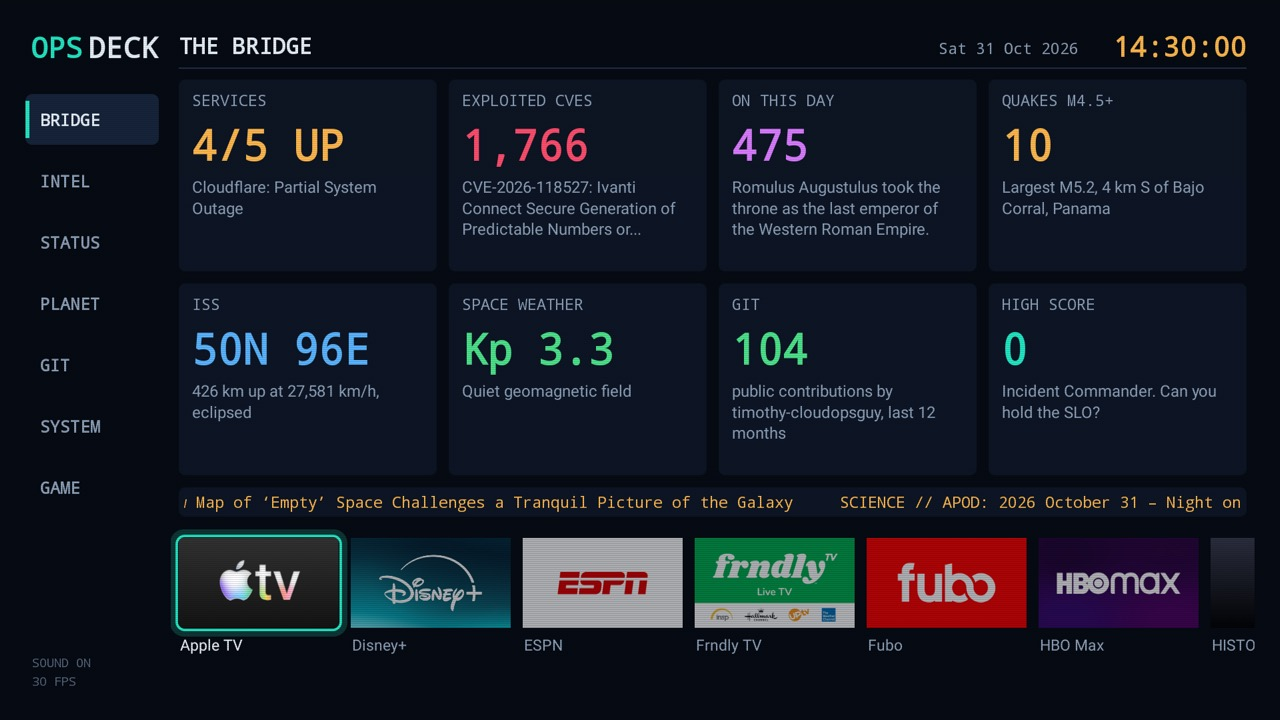
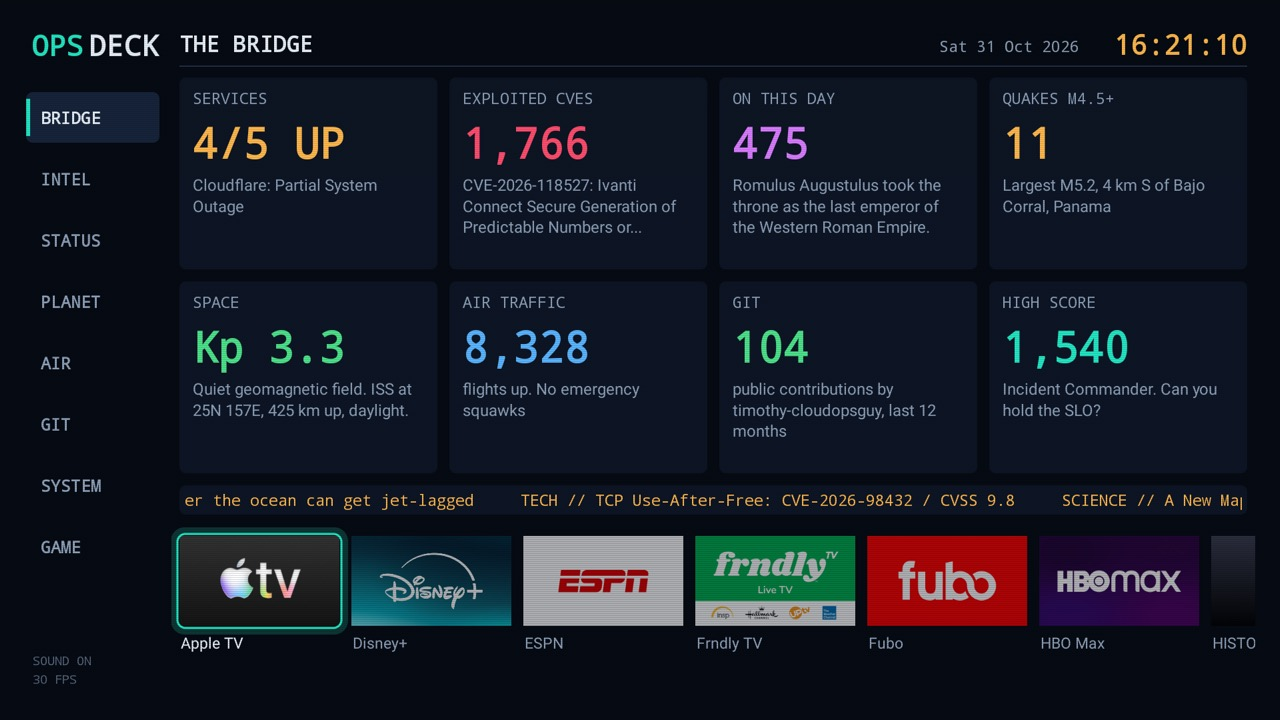
addons: Ops Deck Bridge gets Space and Air Traffic tiles
ISS and space weather share one tile; the new one shows flights in the air and any
emergency squawk, from feeds the air map now shares. Tried on a Hisense SmartTV 4K
(songshan), Android 11.

diff --git a/addons/ops-deck/app/src/main/java/io/github/timothy_cloudopsguy/opsdeck/BridgePanel.java b/addons/ops-deck/app/src/main/java/io/github/timothy_cloudopsguy/opsdeck/BridgePanel.java
@@ -18,6 +18,7 @@ final class BridgePanel extends Panel {
     private static final int COLS = 4;
     private static final int TILES = 8;
     private static final int APP_ROW = 2;
+    private static final int AIR_TILE = 5;
     private static final float TILE_W = 387f;
     private static final float TILE_H = 288f;
     private static final float GAP = 18f;
@@ -26,8 +27,8 @@ final class BridgePanel extends Panel {
     private static final float APP_TOP = 806f;
     private static final double TICKER_SPEED = 0.09;
 
-    private final String[] label = {"SERVICES", "EXPLOITED CVES", "ON THIS DAY", "QUAKES M4.5+", "ISS", "SPACE WEATHER", "GIT", "HIGH SCORE"};
-    private final int[] target = {2, 1, 1, 3, 4, 3, 5, 7};
+    private final String[] label = {"SERVICES", "EXPLOITED CVES", "ON THIS DAY", "QUAKES M4.5+", "SPACE", "AIR TRAFFIC", "GIT", "HIGH SCORE"};
+    private final int[] target = {2, 1, 1, 3, 3, 4, 5, 7};
     private final String[] value = new String[TILES];
     private final String[] sub = new String[TILES];
     private final int[] tone = new int[TILES];
@@ -41,6 +42,7 @@ final class BridgePanel extends Panel {
     private float appScroll;
     private long refreshed;
     private String ticker = "";
+    private boolean airAlert;
     private float tickerWidth;
 
     BridgePanel(Deck deck) {
@@ -125,6 +127,14 @@ final class BridgePanel extends Panel {
         float r = l + TILE_W;
         float b = t + TILE_H;
         Ui.card(c, l, t, r, b, Ui.PANEL);
+        if (i == AIR_TILE && airAlert) {
+            // A slow pulse: it should be seen from across the room without nagging.
+            Ui.STROKE.setColor(Ui.RED);
+            Ui.STROKE.setAlpha((int) (120 + 135 * (Math.sin(now / 400.0) * 0.5 + 0.5)));
+            Ui.STROKE.setStrokeWidth(4);
+            Ui.R.set(l, t, r, b);
+            c.drawRoundRect(Ui.R, 10, 10, Ui.STROKE);
+        }
         Ui.mono(c, label[i], l + 20, t + 40, 23, Ui.DIM);
         Ui.line(c, value[i], l + 20, t + 122, TILE_W - 40, 64, tone[i], Ui.MONO_BOLD);
         Ui.para(c, sub[i], l + 20, t + 170, TILE_W - 40, 24, Ui.DIM, Ui.SANS, 3);
@@ -214,19 +224,27 @@ final class BridgePanel extends Panel {
             sub[3] = String.format(Locale.US, "Largest M%.1f, %s", top.magnitude, top.place);
             tone[3] = Ui.AMBER;
         }
-        Parsers.Iss iss = s.iss;
-        if (iss != null) {
-            value[4] = String.format(Locale.US, "%.0f%s %.0f%s", Math.abs(iss.lat), iss.lat >= 0 ? "N" : "S",
-                    Math.abs(iss.lon), iss.lon >= 0 ? "E" : "W");
-            sub[4] = String.format(Locale.US, "%.0f km up at %,.0f km/h, %s", iss.altitudeKm, iss.speedKmh, iss.visibility);
-            tone[4] = Ui.BLUE;
-        }
         float[] kp = s.kp;
+        Parsers.Iss iss = s.iss;
+        String station = iss == null ? "" : String.format(Locale.US, "ISS at %.0f%s %.0f%s, %.0f km up, %s.",
+                Math.abs(iss.lat), iss.lat >= 0 ? "N" : "S", Math.abs(iss.lon), iss.lon >= 0 ? "E" : "W",
+                iss.altitudeKm, iss.visibility);
         if (kp.length > 0) {
             float k = kp[kp.length - 1];
-            value[5] = String.format(Locale.US, "Kp %.1f", k);
-            sub[5] = PlanetPanel.stormName(k);
-            tone[5] = k >= 5 ? Ui.RED : k >= 4 ? Ui.AMBER : Ui.GREEN;
+            value[4] = String.format(Locale.US, "Kp %.1f", k);
+            sub[4] = PlanetPanel.stormName(k) + ". " + station;
+            tone[4] = k >= 5 ? Ui.RED : k >= 4 ? Ui.AMBER : Ui.GREEN;
+        } else if (iss != null) {
+            value[4] = "ISS";
+            sub[4] = station;
+            tone[4] = Ui.BLUE;
+        }
+        List<AirData.Plane> squawks = s.emergencies;
+        airAlert = !squawks.isEmpty();
+        if (s.flightsUp >= 0) value[5] = Ui.number(s.flightsUp);
+        if (s.flightsUp >= 0 || airAlert) {
+            sub[5] = (s.flightsUp >= 0 ? "flights up. " : "") + AirData.squawkSummary(squawks);
+            tone[5] = airAlert ? Ui.RED : Ui.BLUE;
         }
         Parsers.Calendar cal = s.calendar;
         if (cal != null) {

diff --git a/addons/ops-deck/app/src/main/java/io/github/timothy_cloudopsguy/opsdeck/Store.java b/addons/ops-deck/app/src/main/java/io/github/timothy_cloudopsguy/opsdeck/Store.java
@@ -41,6 +41,7 @@ final class Store {
     static final int TECH = 1;
     static final int SCIENCE = 2;
     static final int HISTORY = 3;
+    static final String[] EMERGENCY_CODES = {"7700", "7600", "7500"};
     static final String[] CATEGORIES = {"VULNS", "TECH", "SCIENCE", "HISTORY"};
 
     /** One vendor's status page. */
@@ -147,6 +148,12 @@ final class Store {
     volatile List<Parsers.Repo> repos;
     volatile int[] weeks;
     volatile int kevTotal = -1;
+    /** Aircraft in the air in OpenSky's last world snapshot; -1 until there is one. */
+    volatile int flightsUp = -1;
+    /** Emergency squawks anywhere in the world, across the codes in EMERGENCY_CODES. */
+    volatile List<AirData.Plane> emergencies = Collections.emptyList();
+    @SuppressWarnings("unchecked")
+    private final List<AirData.Plane>[] emergenciesByCode = new List[EMERGENCY_CODES.length];
     /** Which of the last ISS fixes to draw as a trail: lat, lon pairs, oldest first. */
     final List<double[]> issTrail = Collections.synchronizedList(new ArrayList<>());
 
@@ -193,6 +200,16 @@ final class Store {
             issTrail.add(new double[]{now.lat, now.lon});
             if (issTrail.size() > 60) issTrail.remove(0);
         }));
+        // OpenSky allows 400 credits a day and a world snapshot costs 4: at this pace a TV left on all day stays well
+        // inside that, with room for the air map's own use.
+        jobs.add(new Job("OpenSky count", "https://opensky-network.org/api/states/all", 20 * MINUTE,
+                (f, ms) -> flightsUp = AirData.parseOpenSky(read(f), System.currentTimeMillis()).size()));
+        for (int i = 0; i < EMERGENCY_CODES.length; i++) {
+            int code = i;
+            emergenciesByCode[i] = Collections.emptyList();
+            jobs.add(new Job("Squawk " + EMERGENCY_CODES[i], "https://api.adsb.lol/v2/sqk/" + EMERGENCY_CODES[i], MINUTE,
+                    (f, ms) -> setEmergencies(code, AirData.parseRegional(read(f), System.currentTimeMillis()))));
+        }
         jobs.add(new Job("GitHub chart", "https://github.com/users/" + githubUser + "/contributions",
                 HOUR, (f, ms) -> calendar = Parsers.calendar(read(f))));
         // Unauthenticated GitHub allows 60 calls an hour, so these stay slow.
@@ -231,6 +248,13 @@ final class Store {
                 return;
             }
         }
+    }
+
+    private synchronized void setEmergencies(int code, List<AirData.Plane> found) {
+        emergenciesByCode[code] = found;
+        List<AirData.Plane> all = new ArrayList<>();
+        for (List<AirData.Plane> list : emergenciesByCode) all.addAll(list);
+        emergencies = all;
     }
 
     private void addStatus(String name, String base) {

diff --git a/addons/ops-deck/app/src/main/java/io/github/timothy_cloudopsguy/opsdeck/AirFeed.java b/addons/ops-deck/app/src/main/java/io/github/timothy_cloudopsguy/opsdeck/AirFeed.java
@@ -42,9 +42,6 @@ final class AirFeed {
     private static final String REGIONAL_LOL = "https://api.adsb.lol/v2/lat/%.3f/lon/%.3f/dist/%d";
     private static final String REGIONAL_FI = "https://opendata.adsb.fi/api/v2/lat/%.3f/lon/%.3f/dist/%d";
     private static final String WORLD = "https://opensky-network.org/api/states/all";
-    private static final String SQUAWK = "https://api.adsb.lol/v2/sqk/";
-    private static final String[] EMERGENCY_CODES = {"7700", "7600", "7500"};
-    private static final long EMERGENCY_MS = 60_000;
     private static final String TRACK = "https://opensky-network.org/api/tracks/all?time=0&icao24=";
     private static final long TRACK_REFRESH_MS = 5 * 60_000;
     private static final String ROUTE = "https://api.adsbdb.com/v0/callsign/";
@@ -59,9 +56,6 @@ final class AirFeed {
     /** Set once: {lat, lon}. */
     volatile double[] home;
     volatile boolean locating = true;
-    /** Emergencies anywhere in the world, whatever part of it the map is showing. */
-    volatile List<AirData.Plane> worldEmergencies = Collections.emptyList();
-    private long emergenciesAsked;
     volatile AirData.Track currentTrack;
     volatile String trackState = "";
     private volatile String trackHex = "";
@@ -111,10 +105,6 @@ final class AirFeed {
     /** Called each frame: asks for fresh aircraft when they are due for what the screen shows. */
     void poll(double lat, double lon, int zoom, long now) {
         locateOnce(now);
-        if (now - emergenciesAsked >= EMERGENCY_MS) {
-            emergenciesAsked = now;
-            planeThread.execute(this::fetchEmergencies);
-        }
         wantRegional = zoom >= REGIONAL_MIN_ZOOM;
         if (busy) return;
         if (wantRegional) {
@@ -136,20 +126,6 @@ final class AirFeed {
             if (showingWorld && now - file.lastModified() < WORLD_MS) return;
             busy = true;
             planeThread.execute(() -> fetchWorld(file));
-        }
-    }
-
-    private void fetchEmergencies() {
-        List<AirData.Plane> found = new java.util.ArrayList<>();
-        try {
-            File file = new File(dir, "air-squawk.feed");
-            for (String code : EMERGENCY_CODES) {
-                Store.download(SQUAWK + code, file);
-                found.addAll(AirData.parseRegional(Store.read(file), System.currentTimeMillis()));
-            }
-            worldEmergencies = found;
-        } catch (Exception e) {
-            // Keep the last answer: the feeds on screen still show the emergencies they carry.
         }
     }
 

diff --git a/addons/ops-deck/app/src/main/java/io/github/timothy_cloudopsguy/opsdeck/AirPanel.java b/addons/ops-deck/app/src/main/java/io/github/timothy_cloudopsguy/opsdeck/AirPanel.java
@@ -471,7 +471,7 @@ final class AirPanel extends Panel {
             points[used + 1] = y;
             dotCount[bucket] = used + 2;
         }
-        for (AirData.Plane p : feed.worldEmergencies) {
+        for (AirData.Plane p : deck.store.emergencies) {
             boolean known = false;
             for (int i = 0; i < alarms.size() && !known; i++) known = alarms.get(i).hex.equals(p.hex);
             if (!known && p.emergency()) alarms.add(p);
@@ -595,7 +595,7 @@ final class AirPanel extends Panel {
         Ui.bold(c, p.name(), l + 22, t + 54, 42, p.emergency() ? Ui.RED : Ui.TEXT);
         float y = t + 90;
         if (p.emergency()) {
-            Ui.bold(c, "SQUAWK " + p.squawk + " " + squawkWord(p.squawk), l + 22, y, 23, Ui.RED);
+            Ui.bold(c, "SQUAWK " + p.squawk + " " + AirData.squawkMeaning(p.squawk).toUpperCase(Locale.ROOT), l + 22, y, 23, Ui.RED);
             y += 34;
         }
         if (!p.emergency() && !reportedSquawk.isEmpty() && !reportedSquawk.equals(p.squawk)) {
@@ -656,14 +656,6 @@ final class AirPanel extends Panel {
     private static String climbWord(int fpm) {
         if (fpm > 300) return "climbing";
         return fpm < -300 ? "descending" : "";
-    }
-
-    private static String squawkWord(String squawk) {
-        switch (squawk) {
-            case "7500": return "HIJACK";
-            case "7600": return "RADIO FAILURE";
-            default: return "EMERGENCY";
-        }
     }
 
     private void drawControls(Canvas c) {

diff --git a/addons/ops-deck/app/src/test/java/io/github/timothy_cloudopsguy/opsdeck/AirDataTest.java b/addons/ops-deck/app/src/test/java/io/github/timothy_cloudopsguy/opsdeck/AirDataTest.java
@@ -158,6 +158,19 @@ public class AirDataTest {
     }
 
     @Test
+    public void squawkSummaryNamesTheFirstAndCountsTheRest() throws Exception {
+        List<AirData.Plane> planes = AirData.parseRegional("{\"ac\":["
+                + "{\"hex\":\"a\",\"flight\":\"HK1\",\"lat\":1,\"lon\":1,\"squawk\":\"7600\"},"
+                + "{\"hex\":\"b\",\"lat\":1,\"lon\":1,\"squawk\":\"7700\"},"
+                + "{\"hex\":\"c\",\"lat\":1,\"lon\":1,\"squawk\":\"7500\"}]}", NOW);
+        assertEquals("No emergency squawks", AirData.squawkSummary(planes.subList(0, 0)));
+        assertEquals("7600 radio failure: HK1", AirData.squawkSummary(planes.subList(0, 1)));
+        assertEquals("7600 radio failure: HK1, and 2 more", AirData.squawkSummary(planes));
+        assertEquals("hijack", AirData.squawkMeaning("7500"));
+        assertEquals("emergency", AirData.squawkMeaning("7700"));
+    }
+
+    @Test
     public void routeAndLocationAnswers() throws Exception {
         AirData.Route route = AirData.parseRoute("{\"response\":{\"flightroute\":{\"airline\":{\"name\":\"United\"},"
                 + "\"origin\":{\"iata_code\":\"EWR\",\"municipality\":\"Newark\",\"latitude\":40.6,\"longitude\":-74.1},"

diff --git a/addons/ops-deck/app/src/main/java/io/github/timothy_cloudopsguy/opsdeck/AirData.java b/addons/ops-deck/app/src/main/java/io/github/timothy_cloudopsguy/opsdeck/AirData.java
@@ -302,6 +302,22 @@ final class AirData {
         return out;
     }
 
+    static String squawkMeaning(String squawk) {
+        switch (squawk) {
+            case "7500": return "hijack";
+            case "7600": return "radio failure";
+            default: return "emergency";
+        }
+    }
+
+    /** One line for the Bridge: the first emergency and how many more. */
+    static String squawkSummary(List<Plane> emergencies) {
+        if (emergencies.isEmpty()) return "No emergency squawks";
+        Plane first = emergencies.get(0);
+        String line = first.squawk + " " + squawkMeaning(first.squawk) + ": " + first.name();
+        return emergencies.size() == 1 ? line : line + ", and " + (emergencies.size() - 1) + " more";
+    }
+
     /** The emergency after the one selected, in a stable order; null past the last one, or when there are none. */
     static Plane nextEmergency(List<Plane> planes, String currentHex) {
         Plane first = null;

diff --git a/addons/ops-deck/app/src/main/java/io/github/timothy_cloudopsguy/opsdeck/SystemPanel.java b/addons/ops-deck/app/src/main/java/io/github/timothy_cloudopsguy/opsdeck/SystemPanel.java
@@ -18,7 +18,7 @@ import java.util.Locale;
 final class SystemPanel extends Panel {
     private static final float SPLIT = 1020f;
     private static final int HISTORY = 90;
-    private static final int FEED_ROWS = 26;
+    private static final int FEED_ROWS = 30;
     private static final long GB = 1024L * 1024 * 1024;
 
     private final ActivityManager activityManager;
@@ -127,7 +127,7 @@ final class SystemPanel extends Panel {
         List<Store.Job> jobs = deck.store.jobs;
         for (int i = 0; i < Math.min(FEED_ROWS, jobs.size()); i++) {
             Store.Job job = jobs.get(i);
-            float y = DeckView.Y0 + 80 + i * 32;
+            float y = DeckView.Y0 + 76 + i * 28.5f;
             int color = !job.error.isEmpty() ? Ui.RED : job.lastGood > 0 ? Ui.GREEN : Ui.FAINT;
             Ui.FILL.setColor(color);
             c.drawCircle(l + 32, y - 7, 7, Ui.FILL);

diff --git a/addons/ops-deck/README.md b/addons/ops-deck/README.md
@@ -8,7 +8,7 @@ it, and Back or Left comes out again.
 
 | Screen | What is on it |
 |---|---|
-| Bridge | Eight summary tiles (OK opens the screen behind each), a headline ticker and the TV apps. Each app has its own note on a pentatonic scale, so scrolling the row plays a little tune; OK opens the app |
+| Bridge | Eight summary tiles (OK opens the screen behind each), including flights in the air and any emergency squawk, a headline ticker and the TV apps. Each app has its own note on a pentatonic scale, so scrolling the row plays a little tune; OK opens the app |
 | Intel | Four desks. Vulns: CISA's known exploited list, The Hacker News, Krebs on Security. Tech: Hacker News, Ars Technica. Science: Quanta, NASA, ScienceDaily. History: Wikipedia's On This Day, Smithsonian. Each story has its summary and a QR code for your phone; OK reads it here in a small built-in browser |
 | Status | GitHub, Cloudflare, Claude, OpenAI and Discord: status, response time from this TV as a trace, open incidents, degraded components |
 | Planet | A dot-matrix world with the last day's M4.5+ earthquakes and the ISS with its trail; the planetary K index |
@@ -36,9 +36,9 @@ it, and Back or Left comes out again.
 - A `<queries>` entry for TV launcher activities, not a permission: it lists the apps for the Bridge's row.
 
 The air map fetches only while it is on screen: adsb.lol or adsb.fi for live traffic around the map's centre, OpenSky for
-the zoomed-out world view (every two minutes, within its free limit of 400 credits a day), adsbdb for a selected flight's
+the zoomed-out world view (every two minutes, within its free limit of 400 credits a day) and the Bridge's flight count (every 20 minutes while the app is open), adsbdb for a selected flight's
 route, OpenSky for its flown path and OpenStreetMap for map tiles (kept in the app's cache so each is fetched once). To find where to start, ipwho.is works out a rough location
-from the TV's internet address; only the latitude and longitude are kept, on the TV. adsb.lol is also asked each minute for emergency squawks worldwide. Those services receive the map
+from the TV's internet address; only the latitude and longitude are kept, on the TV. adsb.lol is also asked each minute while the app is open for emergency squawks worldwide. Those services receive the map
 area or flight being looked at. The map shows what volunteer and research receivers hear, so it is not every flight, and
 it is for fun, not for navigation or safety.
 
